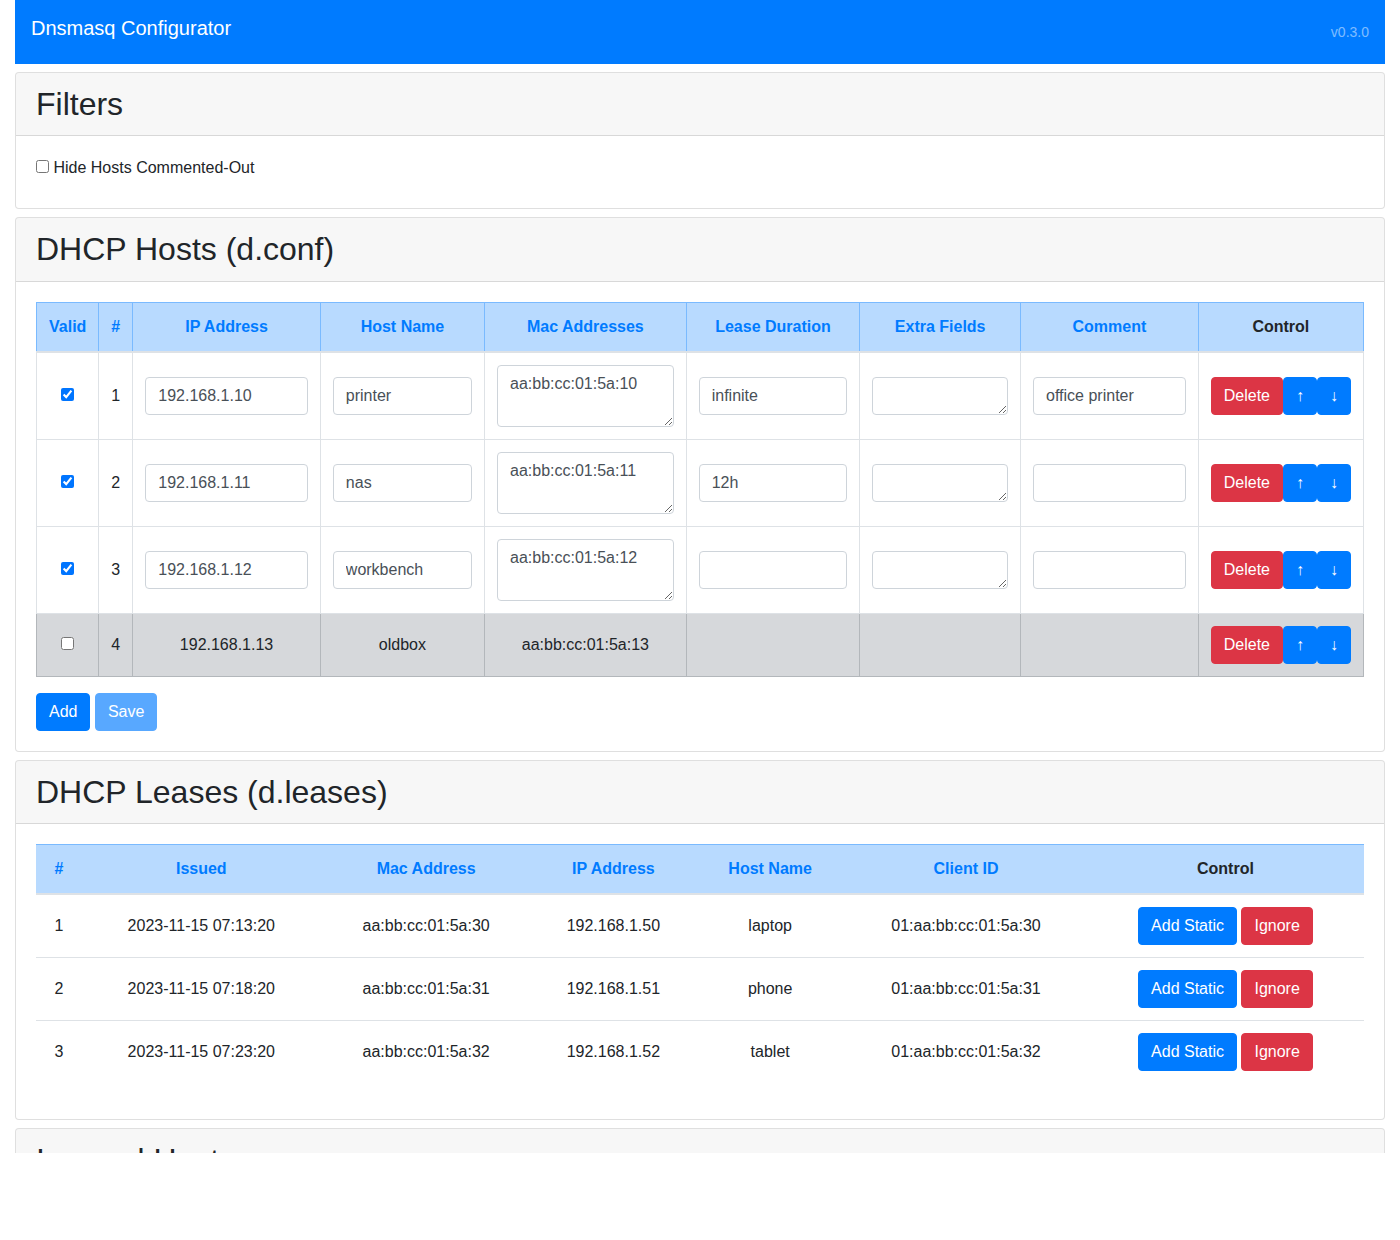
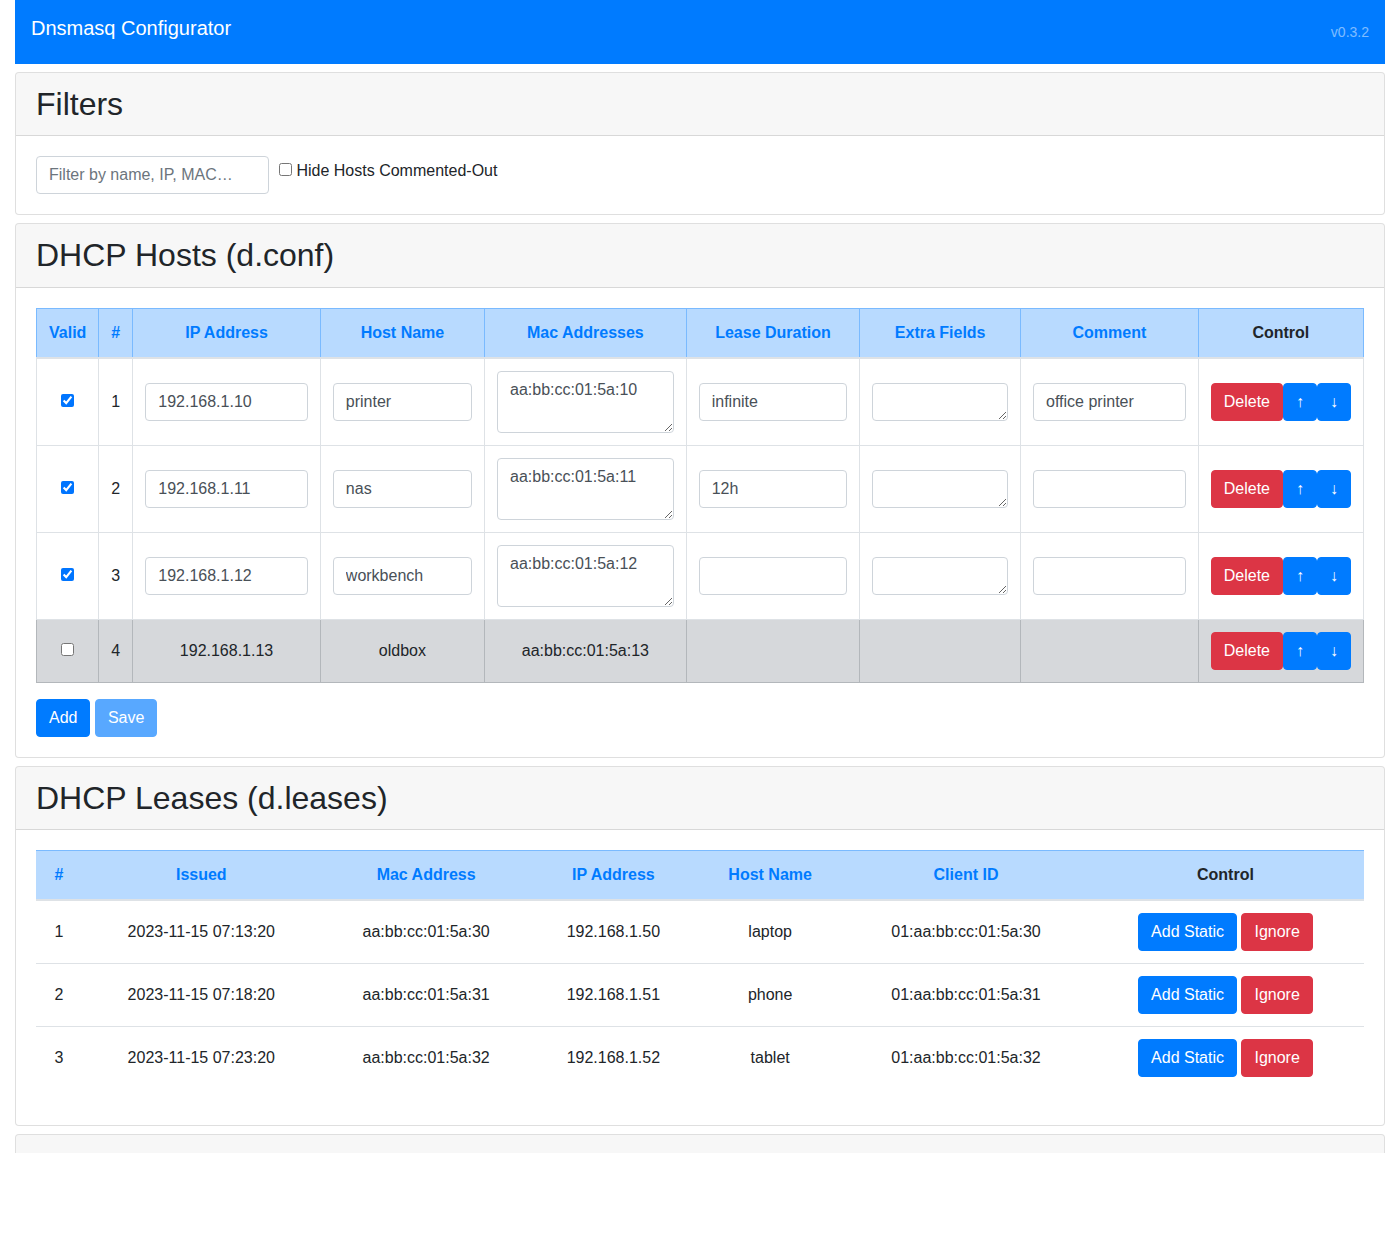
Add filter box and unsaved-changes warning
A search box above the tables narrows all four tables at once by
name, IP, MAC or comment (case-insensitive substring). Leaving the
page with unsaved edits, additions or deletions now asks for
confirmation; the automatic reload after a successful save does not.
Update the screenshot accordingly. Bump to 0.3.2.

diff --git a/dnsmasq_webconf/static/main.js b/dnsmasq_webconf/static/main.js
@@ -9,6 +9,10 @@ if (typeof config === 'undefined') { config = {}; }
 if (typeof read_only === 'undefined') { read_only = false; }
 if (typeof refresh_interval === 'undefined') { refresh_interval = 0; }
 var hide_commented = false;
+// Filters の検索ボックスの内容 (小文字化済み)。空文字なら絞り込み無し
+var filter_text = '';
+// 保存成功後の自動リロード中は離脱警告を出さないためのフラグ
+var saving = false;
 var config_mac_set = new Set();
 var leased_addr_set = new Set();
 
@@ -57,6 +61,15 @@ function match_host(host, cond) {
         }
     }
     return true;
+}
+
+// 検索ボックスの内容でエントリを絞り込む。対象はホスト名・IP・MAC・
+// コメント (hosts 表は names)。大文字小文字を区別しない部分一致
+function match_filter(host) {
+    if (!filter_text) { return true; }
+    var fields = [host.name, host.addr, host.comment, host.mac, host.names];
+    var haystack = fields.join(' ').toLowerCase();
+    return haystack.indexOf(filter_text) !== -1;
 }
 
 function modify_hosts(hosts, cond, apply) {
@@ -256,6 +269,9 @@ $(function () {
             if (hide_commented && !host.valid) {
                 continue;
             }
+            if (!match_filter(host)) {
+                continue;
+            }
             var tag_tr = $('<tr>').appendTo(tag_tbody);
             if (host.valid === false) {
                 tag_tr.addClass("table-secondary");
@@ -379,6 +395,14 @@ $(function () {
         update_hosts('dhcp-hosts');
         update_hosts('ignored-hosts');
     });
+    $('#filter-text').on('input', function (e) {
+        filter_text = $(e.currentTarget).val().trim().toLowerCase();
+        // 4テーブルすべてに同じ絞り込みを適用する
+        update_hosts('dhcp-hosts');
+        update_hosts('dhcp-leases');
+        update_hosts('ignored-hosts');
+        update_hosts('system-hosts');
+    });
     $('.add-host').click(function (e) {
         var tag_click = $(e.currentTarget);
         var table_id = tag_click.data('target');
@@ -430,7 +454,9 @@ $(function () {
                 }
                 if (failed.length === 0) {
                     show_status('success', 'Saved ' + result.applied + ' entries.');
-                    // 追記により行番号がずれるため、保存後は必ず読み直す
+                    // 追記により行番号がずれるため、保存後は必ず読み直す。
+                    // このリロードでは離脱警告を出させない
+                    saving = true;
                     window.location.reload();
                     return;
                 }
@@ -480,6 +506,17 @@ $(function () {
     for (var host of leases) {
       leased_addr_set.add(host.addr);
     }
+    // 未保存の変更 (編集・追加・削除いずれかの印) があるときだけ
+    // ページ離脱を警告する。保存後の自動リロード中は出さない
+    window.addEventListener('beforeunload', function (e) {
+        if (saving) { return; }
+        var dirty = config.hosts.concat(config.ignored_hosts).some(function (h) {
+            return h.changed || h.appended || h.delete;
+        });
+        if (!dirty) { return; }
+        e.preventDefault();
+        e.returnValue = '';
+    });
     update_hosts('dhcp-hosts');
     update_hosts('ignored-hosts');
     update_hosts('system-hosts');

diff --git a/tests/test_app.py b/tests/test_app.py
@@ -109,6 +109,12 @@ class TestIndex:
         assert 'save-hosts' not in res.text
         assert 'add-host' not in res.text
 
+    def test_filter_box_is_rendered(self, files) -> None:
+        """絞り込み検索ボックス (v0.3.2) が Filters セクションにあること。"""
+        res = make_app(files).get('/')
+        assert 'id="filter-text"' in res.text
+        assert 'Filter by name, IP, MAC' in res.text
+
 
 class TestEscaping:
     """信頼できない入力の埋め込み時のエスケープを確認する。"""

diff --git a/dnsmasq_webconf/__init__.py b/dnsmasq_webconf/__init__.py
@@ -2,6 +2,6 @@
 # -*- coding: utf-8 -*-
 """dnsmasq-webconf: dnsmasq の静的 DHCP 予約を編集する軽量 Web UI。"""
 
-__version__ = '0.3.1'
+__version__ = '0.3.2'
 
 __all__ = ['__version__']

diff --git a/README.md b/README.md
@@ -47,6 +47,8 @@ not try to compete with it. See [Alternatives](#alternatives) below.
   touches your config; a rejected save changes nothing.
 - **Live lease table** — the lease view refreshes periodically, so a newly connected
   device can be reserved the moment it appears.
+- **Filter box** — type a name, IP, MAC or comment fragment to narrow all tables at
+  once; leaving with unsaved changes asks for confirmation.
 - **No database, no build step, no JavaScript toolchain.** Two Python dependencies,
   and all CSS/JS is bundled — it works on an isolated network with no internet access.
 

diff --git a/CHANGELOG.md b/CHANGELOG.md
@@ -5,6 +5,16 @@ This project adheres to [Semantic Versioning](https://semver.org/).
 
 ## [Unreleased]
 
+## [0.3.2] - 2026-09-19
+
+### Added
+
+- **Filter box** above the tables: type a name, IP, MAC or comment fragment to narrow
+  all four tables at once (case-insensitive substring match).
+- **Unsaved-changes warning**: leaving the page with unsaved edits, additions or
+  deletions now asks for confirmation. The automatic reload after a successful save
+  does not trigger it.
+
 ## [0.3.1] - 2026-09-19
 
 ### Added
